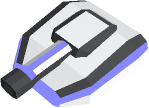
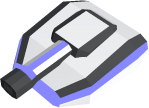
Improved unit image anti-aliasing. Linked more unit attributes

diff --git a/client/clientMain.cpp b/client/clientMain.cpp
@@ -884,7 +884,8 @@ bool							GetLowCellUnderCursor(Grid::LCellIdI&result, bool includeWater, bool 
 			linkedLine.replace("Base horizontal attack range","[[concepts/attack range|Base horizontal attack range]]");
 			linkedLine.replace("Initiative","[[concepts/initiative|Initiative]]");
 			linkedLine.replace("Weight","[[concepts/weight|Weight]]");
-			
+			linkedLine.replace("Base scanning range","[[concepts/sensory|Base scanning range]]");
+			linkedLine.replace("Scanning range","[[concepts/sensory|Scanning range]]");
 			foreach(linkedLine, c)
 			{
 				if (Objects::IsTag(*c))
@@ -918,6 +919,19 @@ bool							GetLowCellUnderCursor(Grid::LCellIdI&result, bool includeWater, bool 
 		file << pretext;
 		file << "{{img:units/"<< String(name) <<".png}}"<<nl;
 		WriteLabel(file,label);
+	}
+
+	void	FinishRendering(const FileSystem::Folder&folder, const DX11::Texture&texture, const String&typeName)
+	{
+		static Image image;
+		display.Copy(texture.GetHandle2D(),image);
+					
+		image.ScaleHalf();
+		image.ScaleHalf();
+		image.TruncateToOpaque();
+		PathString outName = MakeValidFilename(typeName)+".png";
+
+		png.SaveToFile(image, folder.FindFile(outName,false)->GetLocation().c_str());
 	}
 
 
@@ -3642,7 +3656,7 @@ int main( int argc, const char* argv[])
 				if (RuntimeConfig::imageTargetFolder.DoesExist())
 				{
 					LogEvent(EventSignificance::Uncommon, "Documenting objects to "+String(RuntimeConfig::documentationTargetFolder.GetLocation())+ "...");
-					Objects::GeometryImage::resultResolution = 512;
+					Objects::GeometryImage::resultResolution = 1024;
 					Objects::EntityCommand container;
 					Image image;
 					FileSystem::Folder folder(RuntimeConfig::imageTargetFolder);
@@ -3650,39 +3664,21 @@ int main( int argc, const char* argv[])
 					{
 						LogEvent(EventSignificance::Uncommon, "Capturing "+(*s)->GetTypeName());
 						Objects::EntityCommand::UpdateTexture(container,*s,true);
-						display.Copy(container.texture.GetHandle2D(),image);
-					
-						image.ScaleHalf();
-						image.TruncateToOpaque();
-						PathString outName = MakeValidFilename( (*s)->GetTypeName() )+".png";
-
-						png.SaveToFile(image, folder.FindFile(outName,false)->GetLocation().c_str());
+						FinishRendering(folder, container.texture, (*s)->GetTypeName());
 					}
 
 					foreach (Objects::Component::allTurretComponents,c)
 					{
 						LogEvent(EventSignificance::Uncommon, "Capturing "+(*c)->typeName);
 						Objects::EntityConstructionCommand::UpdateTexture(container,nullptr,*c);
-						display.Copy(container.texture.GetHandle2D(),image);
-					
-						image.ScaleHalf();
-						image.TruncateToOpaque();
-						PathString outName = MakeValidFilename( (*c)->typeName )+".png";
-
-						png.SaveToFile(image, folder.FindFile(outName,false)->GetLocation().c_str());
+						FinishRendering(folder, container.texture, (*c)->typeName);
 					}
 
 					foreach (Objects::Component::baseComponents,c)
 					{
 						LogEvent(EventSignificance::Uncommon, "Capturing "+(*c)->typeName);
 						Objects::EntityConstructionCommand::UpdateTexture(container,*c,nullptr);
-						display.Copy(container.texture.GetHandle2D(),image);
-					
-						image.ScaleHalf();
-						image.TruncateToOpaque();
-						PathString outName = MakeValidFilename( (*c)->typeName )+".png";
-
-						png.SaveToFile(image, folder.FindFile(outName,false)->GetLocation().c_str());
+						FinishRendering(folder, container.texture, (*c)->typeName);
 					}
 				}
 				if (RuntimeConfig::documentationTargetFolder.DoesExist())
@@ -3716,7 +3712,7 @@ int main( int argc, const char* argv[])
 					foreach (Objects::Component::allTurretComponents,c)
 					{
 						Objects::BaseCommand::Label label;
-						(*c)->DescribeType(label,false,false,"Vehicle",Objects::OwnerParameter());
+						(*c)->DescribeType(label,false,false,"",Objects::OwnerParameter());
 						WriteDocumentation(rootFolder, turretFolder,unitList, (*c)->typeName, label);
 					}
 
